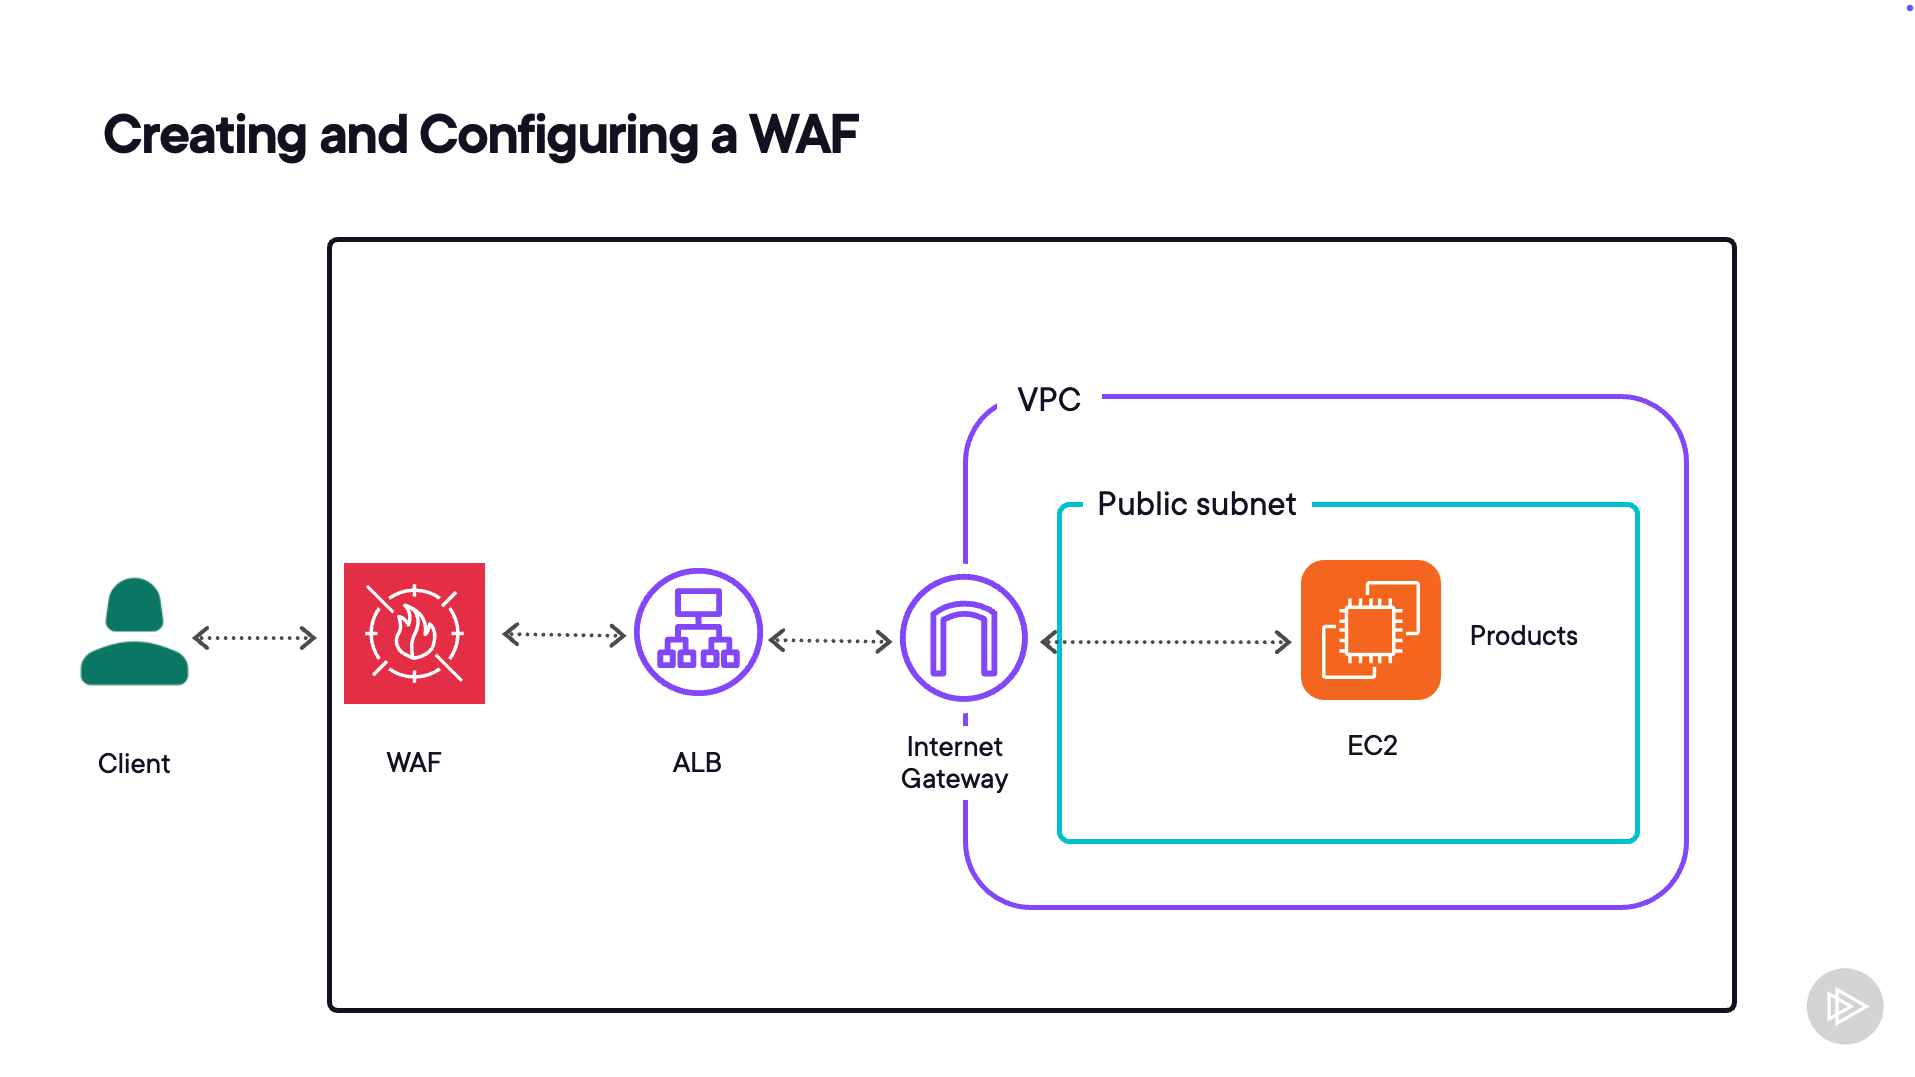
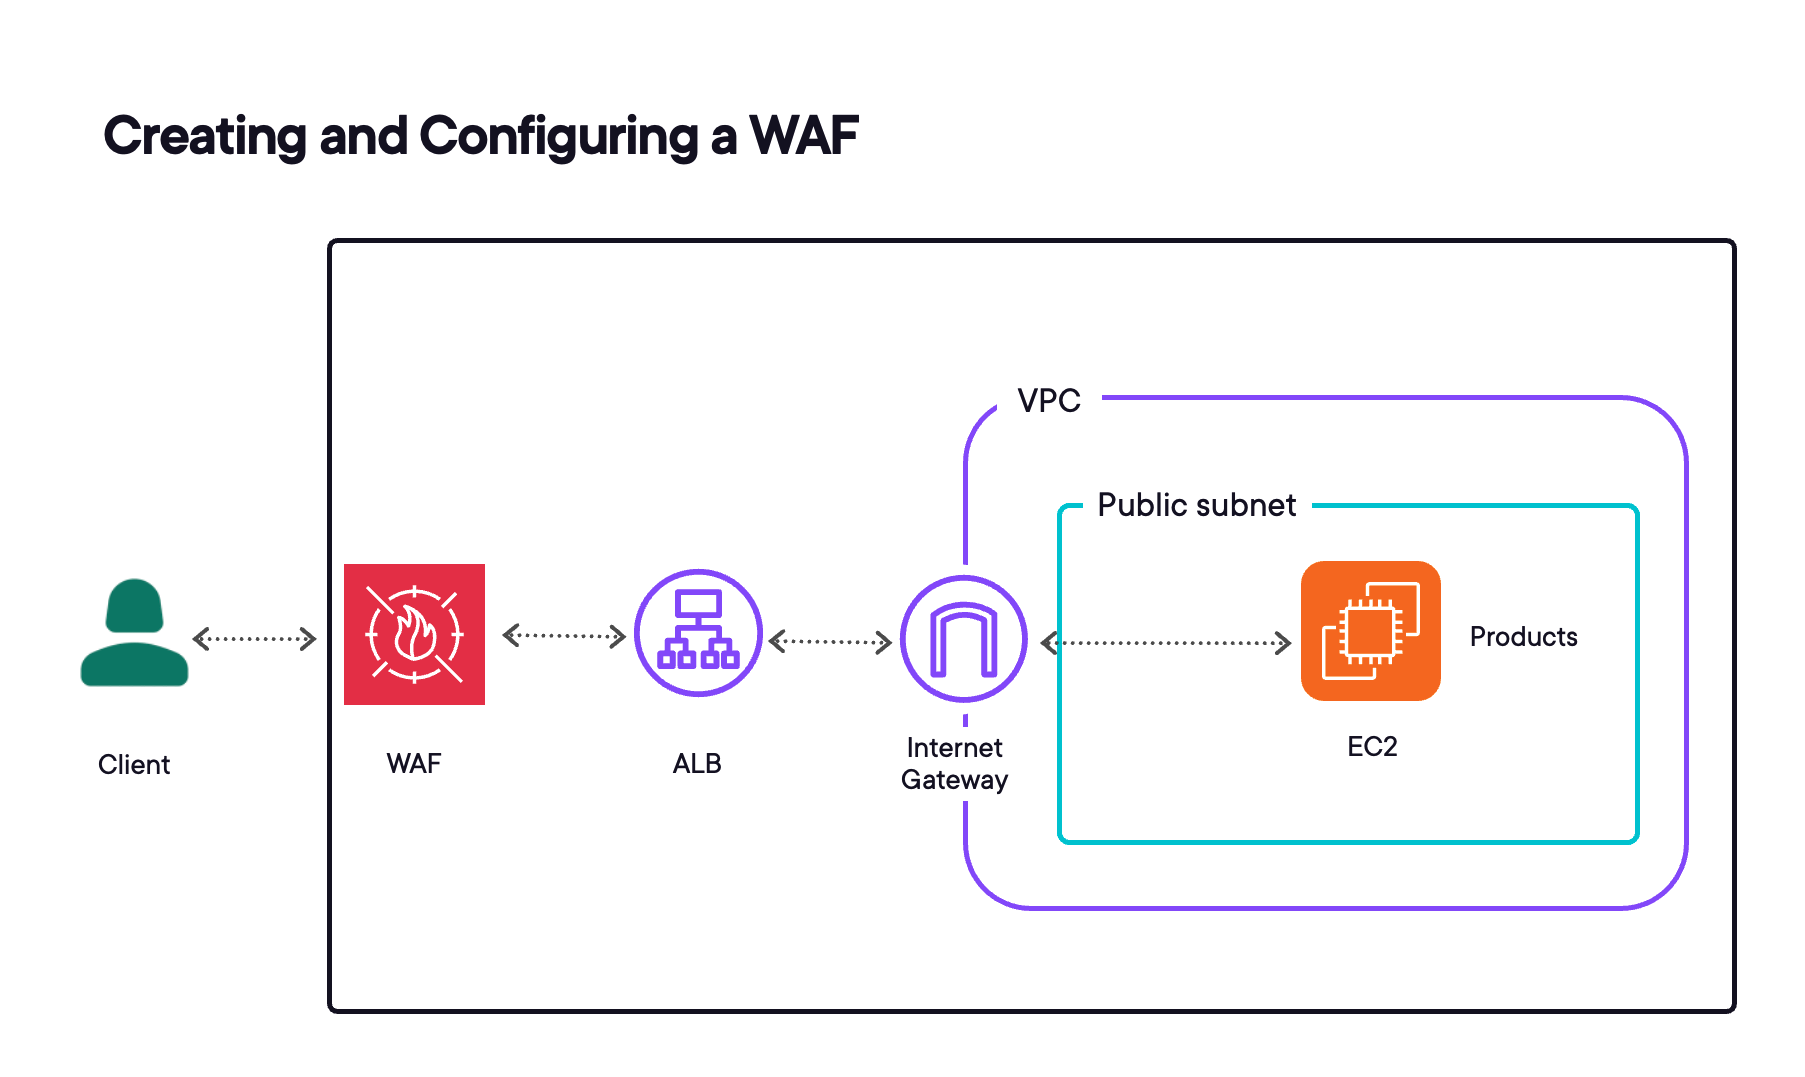
Updated WAF/ALB architecture diagram

diff --git a/article-bodies.jsx b/article-bodies.jsx
@@ -10,7 +10,7 @@
         { t: "p", c: "In this project I deployed an intentionally vulnerable web app behind an ALB, confirmed it accepted every bad request I sent, then put AWS WAF in front of it and ran the same tests again. Same attacks, different result. The whole environment comes from a CloudFormation template, so you can build it, break it, fix it, and delete it without leaving anything running on your bill." },
         { t: "quote", c: "Heads up: this app is vulnerable on purpose. Only deploy it in an AWS account you control, only test against your own resources, and tear it down when you finish." },
         { t: "h", c: "Architecture at a Glance" },
-        { t: "img", src: "images/aws-waf-alb-01-architecture-diagram.png", alt: "Architecture diagram showing internet traffic reaching an EC2 instance through an Application Load Balancer", wide: true },
+        { t: "img", src: "images/aws-waf-alb-01-architecture-diagram.png", alt: "Architecture diagram showing client traffic passing through AWS WAF and an Application Load Balancer, then an Internet Gateway, to an EC2 instance in a public subnet of a VPC", wide: true },
         { t: "p", c: "The flow: Internet → Application Load Balancer (HTTP on port 80) → target group → EC2 instance. After the fix, a web ACL sits on the ALB and inspects every request before it reaches the app." },
         { t: "p", c: "Services used:" },
         { t: "ul", c: ["AWS CloudFormation builds and deletes the environment.", "Application Load Balancer and EC2 host the sample app.", "AWS WAF filters requests with three AWS managed rule groups and one custom rule.", "AWS CloudShell sends the test traffic.", "CloudWatch metrics (through the WAF traffic overview) show what was allowed and blocked."] },
